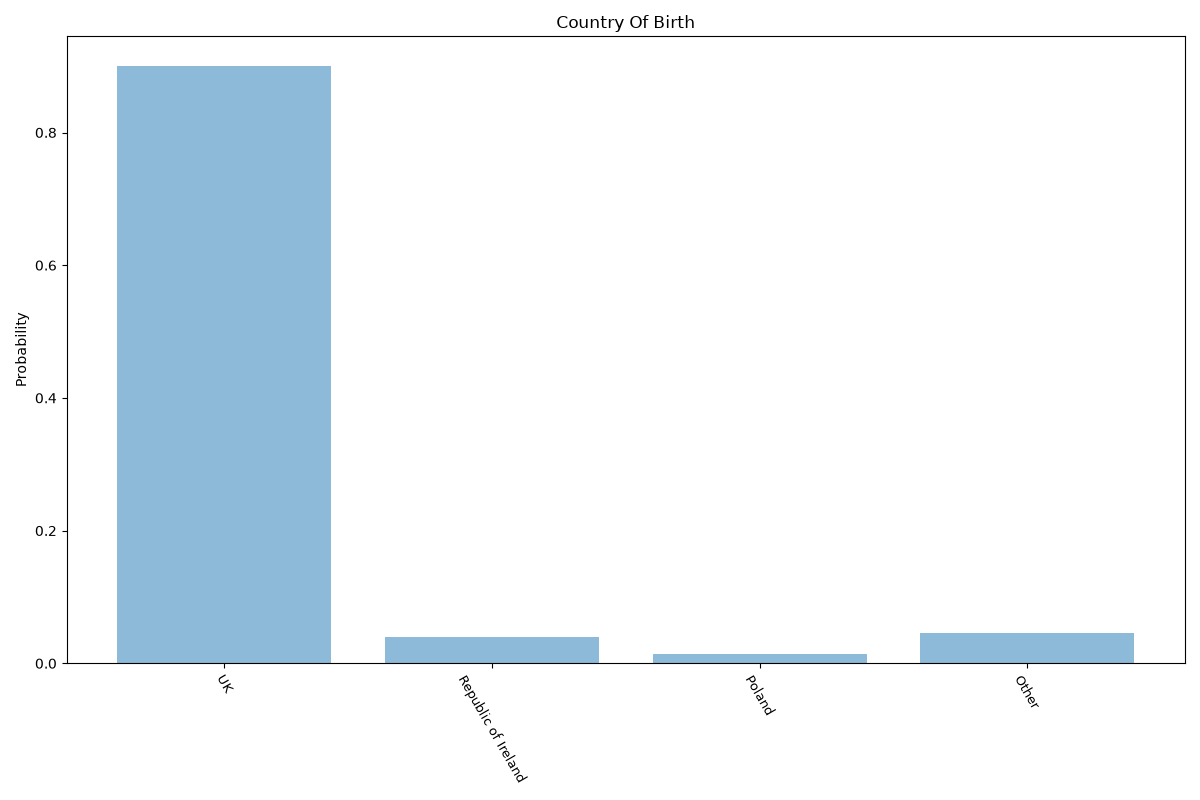
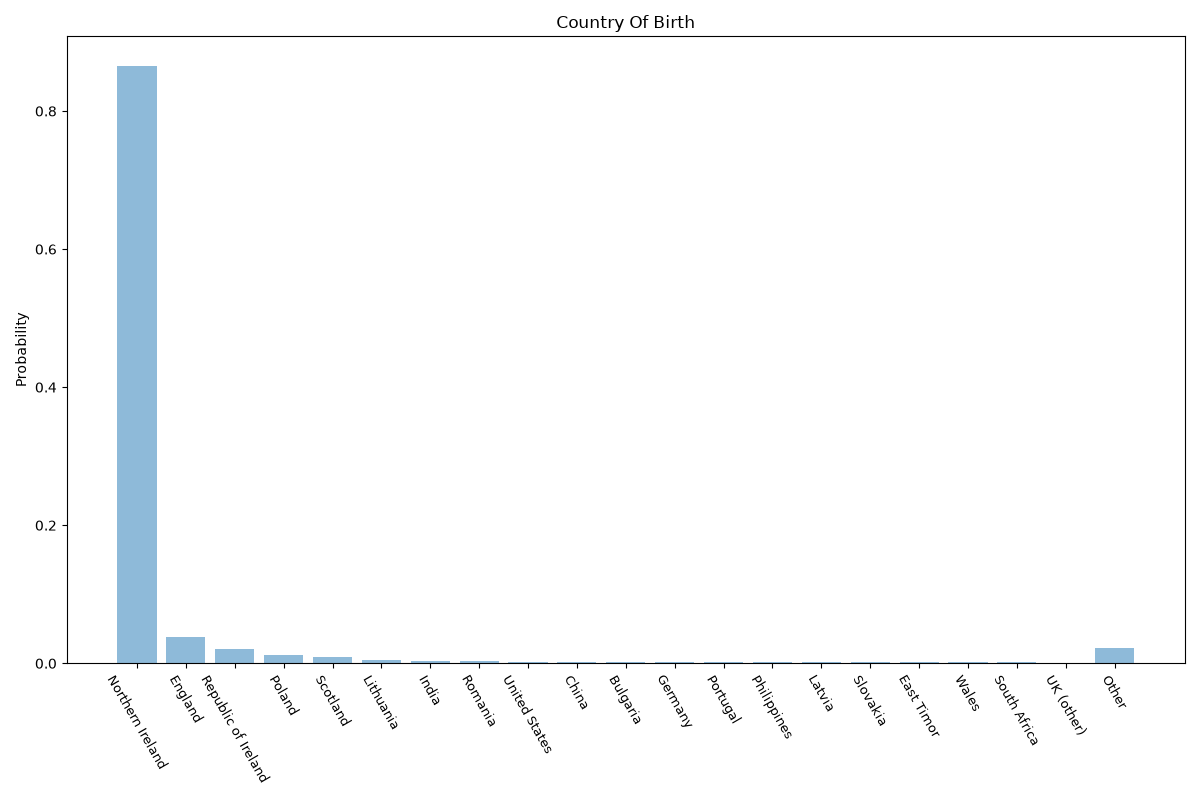
fix: report the UK constituent country of birth instead of a lumped UK

diff --git a/tests/test_data_integrity.py b/tests/test_data_integrity.py
@@ -67,7 +67,19 @@ FORBIDDEN_LABELS = {
         "Owner with mortgage": "Owned with mortgage",
         "Social rented (HLM)": "Social rented",
     },
+    # A persona from Wales should be born in "Wales", not the uninformative
+    # "UK". UK datasets name the constituent country; lumped labels are out.
+    "country of birth": {
+        "UK": "England, Wales, Scotland or Northern Ireland",
+        "Rest of UK": "England, Wales, Scotland or Northern Ireland",
+        "USA": "United States",
+        "Ireland": "Republic of Ireland",
+    },
 }
+
+# Datasets covering a UK nation must name the constituent countries of birth
+# rather than collapsing them into a single "UK" bucket.
+UK_BIRTH_COUNTRIES = {"England", "Wales", "Scotland", "Northern Ireland"}
 
 # Long tails are routinely truncated, so distributions may fall short of 1.0.
 # They must never exceed it by more than rounding, which would mean
@@ -178,6 +190,20 @@ def test_age_bands_are_contiguous_and_disjoint(path, loaded):
     for (_, prev_high), (low, _) in itertools.pairwise(bounds):
         assert prev_high is not None, f"{name(path)}: open-ended band is not last"
         assert low == prev_high + 1, f"{name(path)}: gap or overlap at {prev_high}/{low}"
+
+
+@pytest.mark.parametrize("path", DATASETS, ids=name)
+def test_uk_datasets_name_the_country_of_birth(path, loaded):
+    if "united_kingdom" not in str(path):
+        return
+    birth = loaded[path].get("country of birth")
+    if birth is None:
+        return
+    named = UK_BIRTH_COUNTRIES & set(birth)
+    assert len(named) >= 2, (
+        f"{name(path)}: country of birth names only {sorted(named)}; "
+        "UK nations should be listed individually"
+    )
 
 
 @pytest.mark.parametrize("path", COMPOSITES, ids=name)

diff --git a/src/persona/data/united_kingdom/northern_ireland/README.md b/src/persona/data/united_kingdom/northern_ireland/README.md
@@ -51,10 +51,11 @@
 
 ## Sources
 
+- [Country of birth - full detail (MS-A18), Census 2021, NISRA (2021)](https://www.nisra.gov.uk/publications/census-2021-main-statistics-demography-tables-country-birth) — country of birth
 - [Five year age bands and sex (MS-A08), Census 2021, NISRA (2021)](https://www.nisra.gov.uk/publications/census-2021-main-statistics-demography-tables-age-and-sex) — age, sex
 - [Sexual orientation, UK: 2020, ONS (2020)](https://www.ons.gov.uk/peoplepopulationandcommunity/culturalidentity/sexuality/bulletins/sexualidentityuk/2020) — sexuality
 - [Census 2021 main statistics ethnicity tables, NISRA (2021)](https://www.nisra.gov.uk/publications/census-2021-main-statistics-ethnicity-tables) — ethnicity
 - [Census 2021 main statistics religion tables, NISRA (2021)](https://www.nisra.gov.uk/publications/census-2021-main-statistics-religion-tables) — religion
 - [Census 2021 main statistics language tables, NISRA (2021)](https://www.nisra.gov.uk/publications/census-2021-main-statistics-language-tables) — language
 - [Census 2021 main statistics for Northern Ireland (phase 1), NISRA (2021)](https://www.nisra.gov.uk/statistics/census/2021-census) — location
-- [Census 2021 main statistics for Northern Ireland (phase 2 & 3), NISRA (2021)](https://www.nisra.gov.uk/statistics/census-2021-results/main-statistics) — occupation, education, marital status, housing tenure, country of birth
+- [Census 2021 main statistics for Northern Ireland (phase 2 & 3), NISRA (2021)](https://www.nisra.gov.uk/statistics/census-2021-results/main-statistics) — occupation, education, marital status, housing tenure

diff --git a/src/persona/data/united_kingdom/scotland/README.md b/src/persona/data/united_kingdom/scotland/README.md
@@ -51,6 +51,7 @@
 
 ## Sources
 
+- [Country of birth, Scotland's Census 2011, National Records of Scotland (2011)](https://www.scotlandscensus.gov.uk/census-results/at-a-glance/country-of-birth/) — country of birth
 - [Demography of Scotland, Scotland's Census 2011, National Records of Scotland (2011)](https://www.scotlandscensus.gov.uk/census-results/at-a-glance/population/) — age, sex, sexuality, ethnicity, religion, language, location
 - [Housing, Scotland's Census 2022, National Records of Scotland (2022)](https://www.scotlandscensus.gov.uk/2022-reports/scotland-s-census-2022-housing/) — housing tenure
-- [Scotland's Census 2022, National Records of Scotland (2022)](https://www.scotlandscensus.gov.uk/2022-reports/scotland-s-census-2022-education-labour-market-and-travel-to-work/) — occupation, education, marital status, country of birth
+- [Scotland's Census 2022, National Records of Scotland (2022)](https://www.scotlandscensus.gov.uk/2022-reports/scotland-s-census-2022-education-labour-market-and-travel-to-work/) — occupation, education, marital status

diff --git a/src/persona/data/united_kingdom/england/README.md b/src/persona/data/united_kingdom/england/README.md
@@ -60,4 +60,4 @@
 - [Highest level of qualification (TS067), Census 2021, ONS (2021)](https://www.ons.gov.uk/datasets/TS067/editions/2021/versions/1) — education
 - [Legal partnership status (TS002), Census 2021, ONS (2021)](https://www.ons.gov.uk/datasets/TS002/editions/2021/versions/3) — marital status
 - [Tenure of household (TS054), Census 2021, ONS (2021)](https://www.ons.gov.uk/datasets/TS054/editions/2021/versions/1) — housing tenure
-- [International migration, England and Wales: Census 2021, ONS (2021)](https://www.ons.gov.uk/peoplepopulationandcommunity/populationandmigration/internationalmigration/bulletins/internationalmigrationenglandandwales/census2021) — country of birth
+- [Country of birth (TS012), Census 2021, ONS (2021)](https://www.ons.gov.uk/datasets/TS012/editions/2021/versions/1) — country of birth

diff --git a/src/persona/data/united_kingdom/wales/README.md b/src/persona/data/united_kingdom/wales/README.md
@@ -60,4 +60,4 @@
 - [Highest level of qualification (TS067), Census 2021, ONS (2021)](https://www.ons.gov.uk/datasets/TS067/editions/2021/versions/1) — education
 - [Legal partnership status (TS002), Census 2021, ONS (2021)](https://www.ons.gov.uk/datasets/TS002/editions/2021/versions/3) — marital status
 - [Tenure of household (TS054), Census 2021, ONS (2021)](https://www.ons.gov.uk/datasets/TS054/editions/2021/versions/1) — housing tenure
-- [International migration, England and Wales: Census 2021, ONS (2021)](https://www.ons.gov.uk/peoplepopulationandcommunity/populationandmigration/internationalmigration/bulletins/internationalmigrationenglandandwales/census2021) — country of birth
+- [Country of birth (TS012), Census 2021, ONS (2021)](https://www.ons.gov.uk/datasets/TS012/editions/2021/versions/1) — country of birth

diff --git a/src/persona/data/united_kingdom/england/london/README.md b/src/persona/data/united_kingdom/england/london/README.md
@@ -22,4 +22,4 @@
 - [Ethnic group (TS021), Census 2021, ONS (2021)](https://www.ons.gov.uk/datasets/TS021/editions/2021/versions/1) — ethnicity
 - [Main language (TS024), Census 2021, ONS (2021)](https://www.ons.gov.uk/datasets/TS024/editions/2021/versions/1) — language
 - [Religion (TS030), Census 2021, ONS (2021)](https://www.ons.gov.uk/datasets/TS030/editions/2021/versions/1) — religion
-- [Country of birth (TS004), Census 2021, ONS (2021)](https://www.ons.gov.uk/datasets/TS004/editions/2021/versions/1) — country of birth
+- [Country of birth (TS012), Census 2021, ONS (2021)](https://www.ons.gov.uk/datasets/TS012/editions/2021/versions/1) — country of birth
